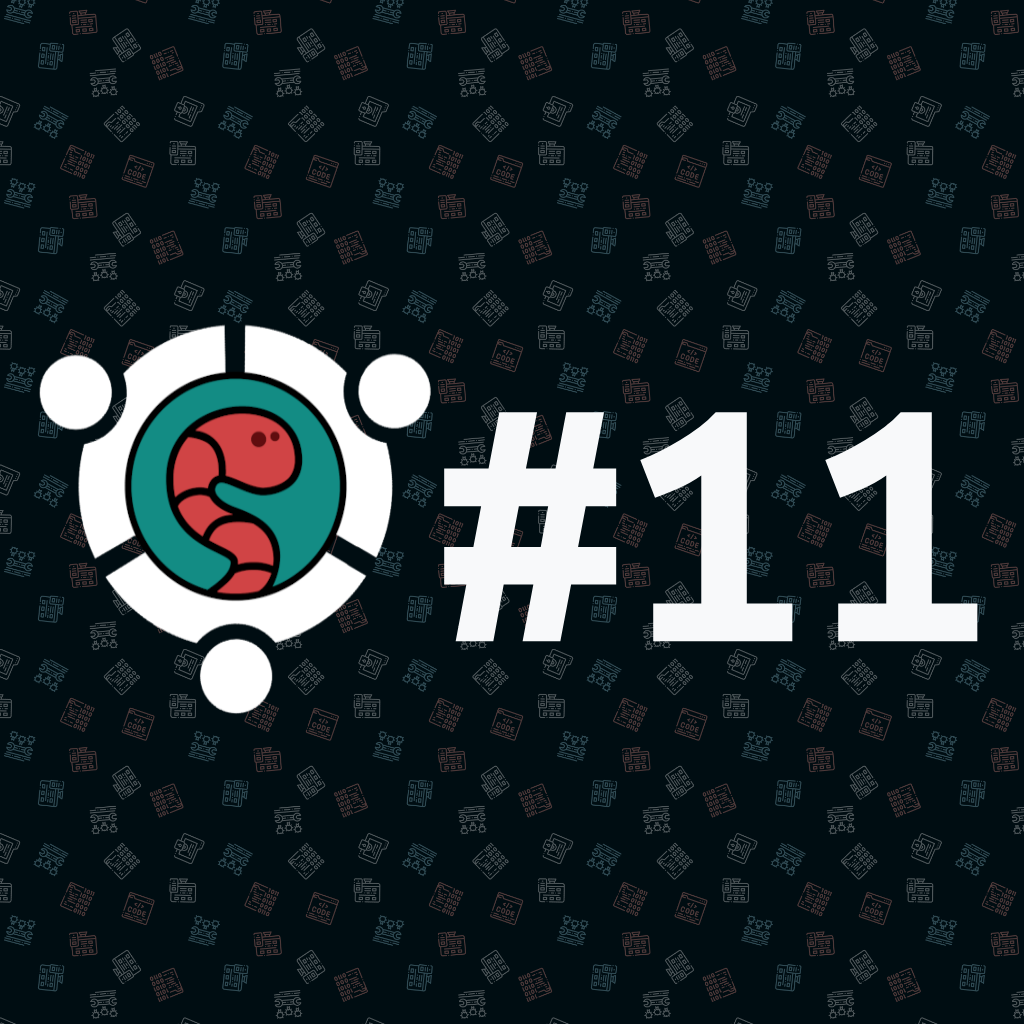
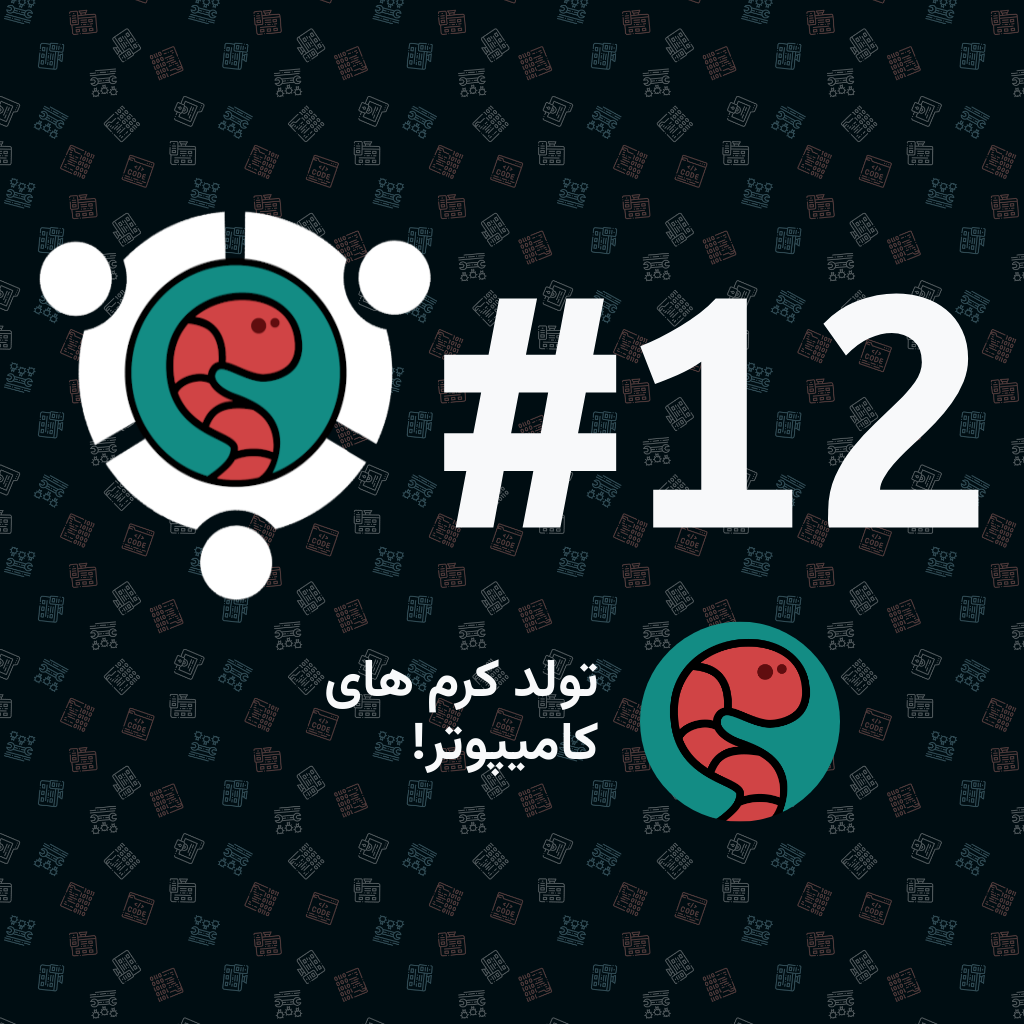
deploy: 5330e727587be7b6dce708d642e75c1e0799d150

Changed region(s): [[0.0312, 0.1875, 0.8438, 0.8125], [0.8125, 0.2812, 0.9688, 0.625]]

diff --git a/index.html b/index.html
@@ -4,9 +4,9 @@
 <head>
     <meta charset="UTF-8">
     <meta name="viewport" content="width=device-width, initial-scale=1.0">
-    <meta property="og:title" content="#11 - دورهمی کرمهای کامپیوتر" />
+    <meta property="og:title" content="#12 - دورهمی کرمهای کامپیوتر" />
     <meta name="og:description" content="دورهمی های کرمهای کامپیوتر - جمعه هر هفته ساعت شش
-">
+ این هفته با ارائه «کرمهای کامپیوتر» درباره تولد کرم های کامیپوتر!">
     <meta property="og:url" content="https://meet.pcworms.ir" />
     <meta property="og:image" content="https://meet.pcworms.ir/preview.png" />
     <title>دورهمی های کرم های کامپیوتر</title>
@@ -20,7 +20,7 @@
         rel="stylesheet">
     <script>
         // Set the date we're counting down to
-        var countDownDate = new Date("Dec 15, 2023 18:00:00").getTime();
+        var countDownDate = new Date("Jan 05, 2024 18:00:00").getTime();
         var finishDate = countDownDate + (1.5 * 3600 * 1000);
 
         // Update the count down every 1 second
@@ -84,7 +84,7 @@
     <div class="container-fluid">
         <div class="row mt-2 text-center">
             <div class="col d-flex  align-items-center justify-content-center">
-                <span class="big-text d-inline-block">#11</span>
+                <span class="big-text d-inline-block">#12</span>
                 <img class="logo" src="./assets/meeting-logo.png" alt="">
             </div>
         </div>
@@ -94,9 +94,19 @@
                 <small>هر جمعه ساعت ۱۸</small>
             </div>
         </div>
-            <div class="row justify-content-center text-center">
-                <div class="text-center">
-                    <small id="counter"></small>
+        <div class="row justify-content-center">
+            <div class="col-12 col-sm-10 col-md-8 p-2 subject-bg">
+                <div class=" row align-items-center">
+                    <div class="col-auto float-start text-center"><img src="assets&#x2F;avatars&#x2F;main-profile.png" class="profile"></div>
+                    <div class="col">
+                        <small class="speaker d-block">
+                            این هفته با «کرمهای کامپیوتر» درباره:
+                        </small>
+                        <h2 class="subject">تولد کرم های کامیپوتر!</h2>
+                        <div class="text-center">
+                            <small class="time" id="counter"></small>
+                        </div>
+                    </div>
                 </div>
             </div>
             <div class="text-center">

diff --git a/post.html b/post.html
@@ -4,9 +4,9 @@
 <head>
     <meta charset="UTF-8">
     <meta name="viewport" content="width=device-width, initial-scale=1.0">
-    <meta property="og:title" content="#11 - دورهمی کرمهای کامپیوتر" />
+    <meta property="og:title" content="#12 - دورهمی کرمهای کامپیوتر" />
     <meta name="og:description" content="دورهمی های کرمهای کامپیوتر - جمعه هر هفته ساعت شش
-">
+ این هفته با ارائه «کرمهای کامپیوتر» درباره تولد کرم های کامیپوتر!">
     <meta property="og:url" content="https://meet.pcworms.ir" />
     <meta property="og:image" content="https://meet.pcworms.ir/preview.png" />
     <title>دورهمی های کرم های کامپیوتر</title>
@@ -20,7 +20,7 @@
         rel="stylesheet">
     <script>
         // Set the date we're counting down to
-        var countDownDate = new Date("Dec 15, 2023 18:00:00").getTime();
+        var countDownDate = new Date("Jan 05, 2024 18:00:00").getTime();
         var finishDate = countDownDate + (1.5 * 3600 * 1000);
 
         // Update the count down every 1 second
@@ -77,7 +77,7 @@
     <div class="container-fluid">
         <div class="row mt-2 text-center">
             <div class="col d-flex  align-items-center justify-content-center">
-                <span class="big-text d-inline-block">#11</span>
+                <span class="big-text d-inline-block">#12</span>
                 <img class="logo" src="./assets/meeting-logo.png" alt="">
             </div>
         </div>
@@ -87,9 +87,19 @@
                 <small>هر جمعه ساعت ۱۸</small>
             </div>
         </div>
-            <div class="row justify-content-center text-center">
-                <div class="text-center">
-                    <small id="counter"></small>
+        <div class="row justify-content-center">
+            <div class="col-12 col-sm-10 col-md-8 p-2 subject-bg">
+                <div class=" row align-items-center">
+                    <div class="col-auto float-start text-center"><img src="assets&#x2F;avatars&#x2F;main-profile.png" class="profile"></div>
+                    <div class="col">
+                        <small class="speaker d-block">
+                            این هفته با «کرمهای کامپیوتر» درباره:
+                        </small>
+                        <h2 class="subject">تولد کرم های کامیپوتر!</h2>
+                        <div class="text-center">
+                            <small class="time" id="counter"></small>
+                        </div>
+                    </div>
                 </div>
             </div>
             <div class="text-center">

diff --git a/preview.html b/preview.html
@@ -21,7 +21,16 @@
         <div class="row mt-2 text-center">
             <div class="col d-flex  align-items-center justify-content-center">
                 <img class="logo" src="./assets/meeting-logo.png" alt="">
-                <span class="big-text d-inline-block">#11</span>
+                <span class="big-text d-inline-block">#12</span>
+            </div>
+        </div>
+        <div class="row justify-content-center">
+            <div class="col-12 col-sm-10 col-md-8 p-2"">
+                <div class=" row align-items-center">
+                <div class="col">
+                    <h1 class="subject" dir="rtl">تولد کرم های کامیپوتر!</h1>
+                </div>
+                <div class="col-auto float-start text-center"><img src="assets&#x2F;avatars&#x2F;main-profile.png" class="profile"></div>
             </div>
         </div>
     </div>
